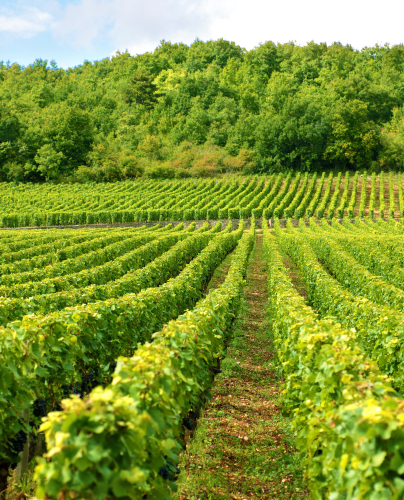
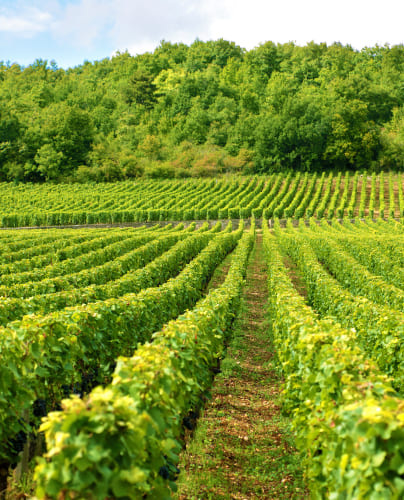
Update: 50000 farmers from 40000, Remove borders from counter, Compress about section images

diff --git a/components/about/about.js b/components/about/about.js
@@ -8,7 +8,6 @@ import Ab from '/public/images/about/ab5.jpg'
 import Abd2 from '/public/images/about/ab1.jpg'
 import Abd3 from '/public/images/about/ab2.jpg'
 import Abd4 from '/public/images/about/ab3.jpg'
-import Abd5 from '/public/images/about/shape.png'
 import Abd6 from '/public/images/about/ceo.jpg'
 
 import Image from 'next/image';
@@ -41,7 +40,7 @@ const about = (props) => {
 
                             <div className="since">
                                 <div>
-                                    <h2> <CountUp end={40000} enableScrollSpy>00</CountUp> </h2>
+                                    <h2> <CountUp end={50000} enableScrollSpy>00</CountUp> </h2>
                                     <p>Farmers</p>
                                 </div>
                             </div>

diff --git a/styles/sass/page/_home-default.scss b/styles/sass/page/_home-default.scss
@@ -117,7 +117,7 @@
                 position: absolute;
                 left: 40px;
                 top: 50%;
-                content: '';
+                // content: '';
                 width: 2px;
                 height: 65px;
                 background: #FFF;
@@ -130,7 +130,7 @@
                 position: absolute;
                 left: 73px;
                 top: 50%;
-                content: '';
+                // content: '';
                 width: 2px;
                 height: 65px;
                 background: #FFF;
